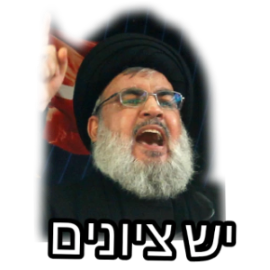
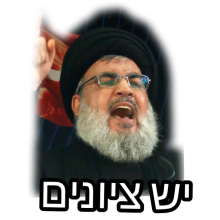
Some changes

diff --git a/src/content.config.ts b/src/content.config.ts
@@ -3,20 +3,21 @@ import { glob } from 'astro/loaders';
 import { z } from 'astro/zod';
 
 const blog = defineCollection({
-	// Load Markdown and MDX files in the `src/content/blog/` directory.
-	loader: glob({ base: './src/content/blog', pattern: '**/*.{md,mdx}' }),
-	// Type-check frontmatter using a schema
-	schema: ({ image }) =>
-		z.object({
-			title: z.string(),
-			description: z.string(),
-			// Transform string to Date object
-			pubDate: z.coerce.date(),
-			updatedDate: z.coerce.date().optional(),
-			featuredImage: image().optional(),
-			heroImage: z.optional(image()),
-			tags: z.array(z.string()).optional(),
-		}),
+    // טעינת קבצי המרקדאון מהתיקייה
+    loader: glob({ base: './src/content/blog', pattern: '**/*.{md,mdx}' }),
+    
+    // הגדרת הסכמה של ה-Frontmatter
+    schema: ({ image }) =>
+        z.object({
+            title: z.string(),
+            description: z.string(),
+            pubDate: z.coerce.date(),
+            updatedDate: z.coerce.date().optional(),
+            featuredImage: image().optional(),
+            heroImage: image().optional(),
+            tags: z.array(z.string()).optional(),
+            featured: z.boolean().optional().default(false),
+        }),
 });
 
 export const collections = { blog };

diff --git a/src/content/blog/fourth-post.md b/src/content/blog/fourth-post.md
@@ -22,14 +22,14 @@ featured: false
 
 ---
 
-**"סיימתי לבדוק את המבחנים שלכם"**
+*"סיימתי לבדוק את המבחנים שלכם"*
 
 המשפט שאחריו הלב שלי התחיל לפעום מהר וחזק יותר, הלסת התחילה קצת לרעוד והחרדה התפשטה מבית החזה אל שאר הגוף.
 
 ---
 
 
-מה שעוד יותר הקשה עליי, הייתה העובדה שלא התברכתי במוח איינשטיין וכדי להוציא הישגים שהם מעבר לבינוניים נדרשתי ללמוד הרבה וקשה מאוד.
+מה שעוד יותר הקשה עליי, היה שלא התברכתי במוח איינשטיין וכדי להוציא הישגים שהם מעבר לבינוניים נדרשתי ללמוד הרבה וקשה מאוד.
 אני חושבת שרמת החרשנות לי עקפה כל תלמיד אפשרי שיצא לי להכיר.
 בחמש יחידות מתמטיקה פתרתי את כל הבגרויות של העשור האחרון אם לא יותר, את כל ספר יואל גבע ואת כל ספר ארכימדס ועדיין לא הרגשתי מוכנה.
 אני חושבת שכל אדם ממוצע שהיה לו את אותה מוטיבציה כמוני ללמוד כל כך הרבה, היה מוציא ציונים יותר טובים ממני.
@@ -47,25 +47,21 @@ featured: false
 
 אחרי בית הספר בארוחת הצהריים, בימים שסבתא הייתה גרה איתי, היא הייתה מספרת לי שהתלמידים שכולם נידו אותם היו התלמידים שקיבלו את הציונים הנמוכים והתלמידים המקובלים היו המצטיינים.
 
-עם השנים, בתיכון, להורים שלי ולסבתא שלי היה פחות איכפת כמה אני מקבלת. אבל בכל זאת החרדה מציונים נשארה ואף החמירה.
+עם השנים, בתיכון, להורים שלי ולסבתא שלי היה פחות איכפת עם איזה ציון אני נכנסת הביתה. אבל בכל זאת החרדה מציונים נשארה ואף החמירה.
 בתקופה הזאת ידעתי שהציונים באמת בעלי משמעות כי הם מרכיבים את תעודת הבגרות שלי.
-
-
-אני רוצה שהפוסט הזה יתרכז בנושא הציונים ולא בנושא החינוך הסובייטי, עליו אני אכתוב אולי בהמשך.
-אני מספרת על זה כי לדעתי זה השורש של החרדה.
 
 ---
 
-**"עכשיו אחלק את המבחנים"**
+*"עכשיו אחלק את המבחנים"*
 
 ברגע הזה הלב פעם מהר יותר והגוף שלי רעד.
-כשקראו בשם שלי הייתי לוקחת את המבחן מקופל ולפעמים לא הייתי בודקת כמה קיבלתי כמה ימים קדימה, לפעמים אפילו לא הייתי יודעת בכלל את הציון עד סוף השנה.
+כשקראו בשם שלי הייתי לוקחת את המבחן מקופל ולפעמים לא הייתי בודקת כמה קיבלתי כמה ימים קדימה, לפעמים אפילו לא הייתי יודעת מה הציון עד סוף השנה.
 
-המורים שחתמו עם ציון את המבחנים שלי לא תיארו כמה השפעה יש למספר הזה עליי.
+המורים שחתמו עם ציון את המבחנים שלי לא תיארו כמה השפעה יש למספר שהם רושמים על הדף.
 
 I know, זה נשמע מאוד לא בריא.
 
-אני יכולה להגיד בשמחה שעכשיו אני ממש לא ככה. עם הציונים שלי בתואר, שהם הרבה יותר חשובים מאיזו מתכונת במתמטיקה, אני מחכה בקוצר רוח ומסתכלת ברגע שהם עולים. והקטע הכי המדהים שהם יכולים להיות יותר נמוכים ממידת הנעליים שלי :) ועדיין אני מסוגלת לבדוק אותם ישר.
+אני יכולה להגיד בשמחה שעכשיו אני ממש לא ככה. עם הציונים שלי בתואר, שהם הרבה יותר חשובים מאיזו מתכונת במתמטיקה, אני מחכה בקוצר רוח ומסתכלת ברגע שהם עולים. והקטע הכי המדהים שהם יכולים להיות יותר נמוכים ממידת הנעליים שלי :)
 
 
 

diff --git a/src/content/blog/third-post.md b/src/content/blog/third-post.md
@@ -5,7 +5,7 @@ pubDate: 'Jun 10 2026'
 # heroImage: '../../assets/blog-placeholder-2.jpg'
 featuredImage: '../../assets/guy-in-corner-of-party.jpg'
 tags: ["אינפורמציה", "התפתחות אישית"]
-featured: true
+featured: false
 ---
 
 את [הפוסט הראשון](https://digital-thoughts2d.github.io/My-Blog/blog/first-post/) חתמתי באמירה אופטימית.